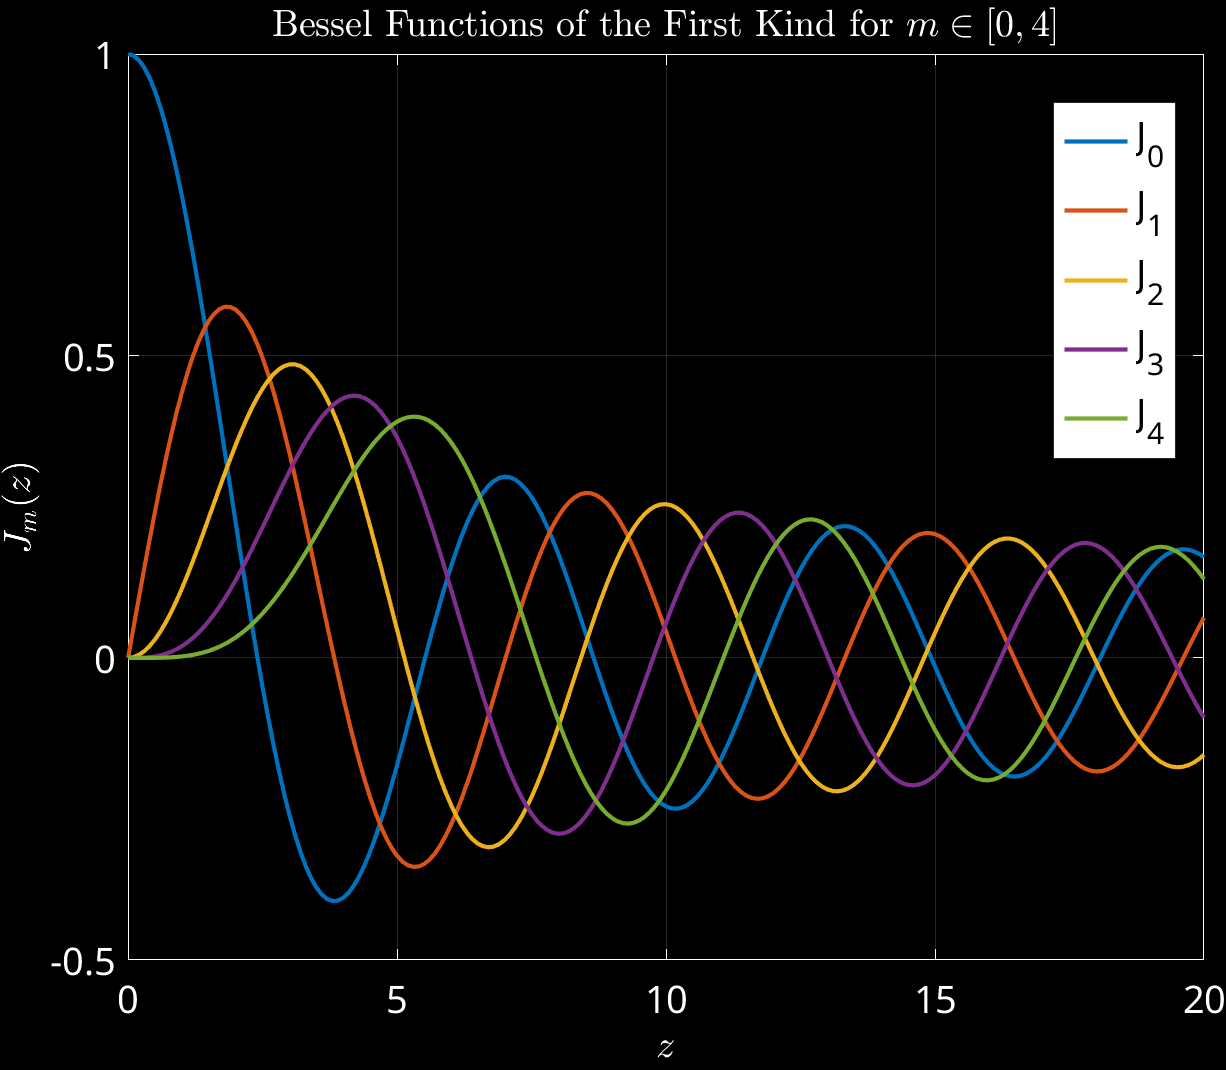
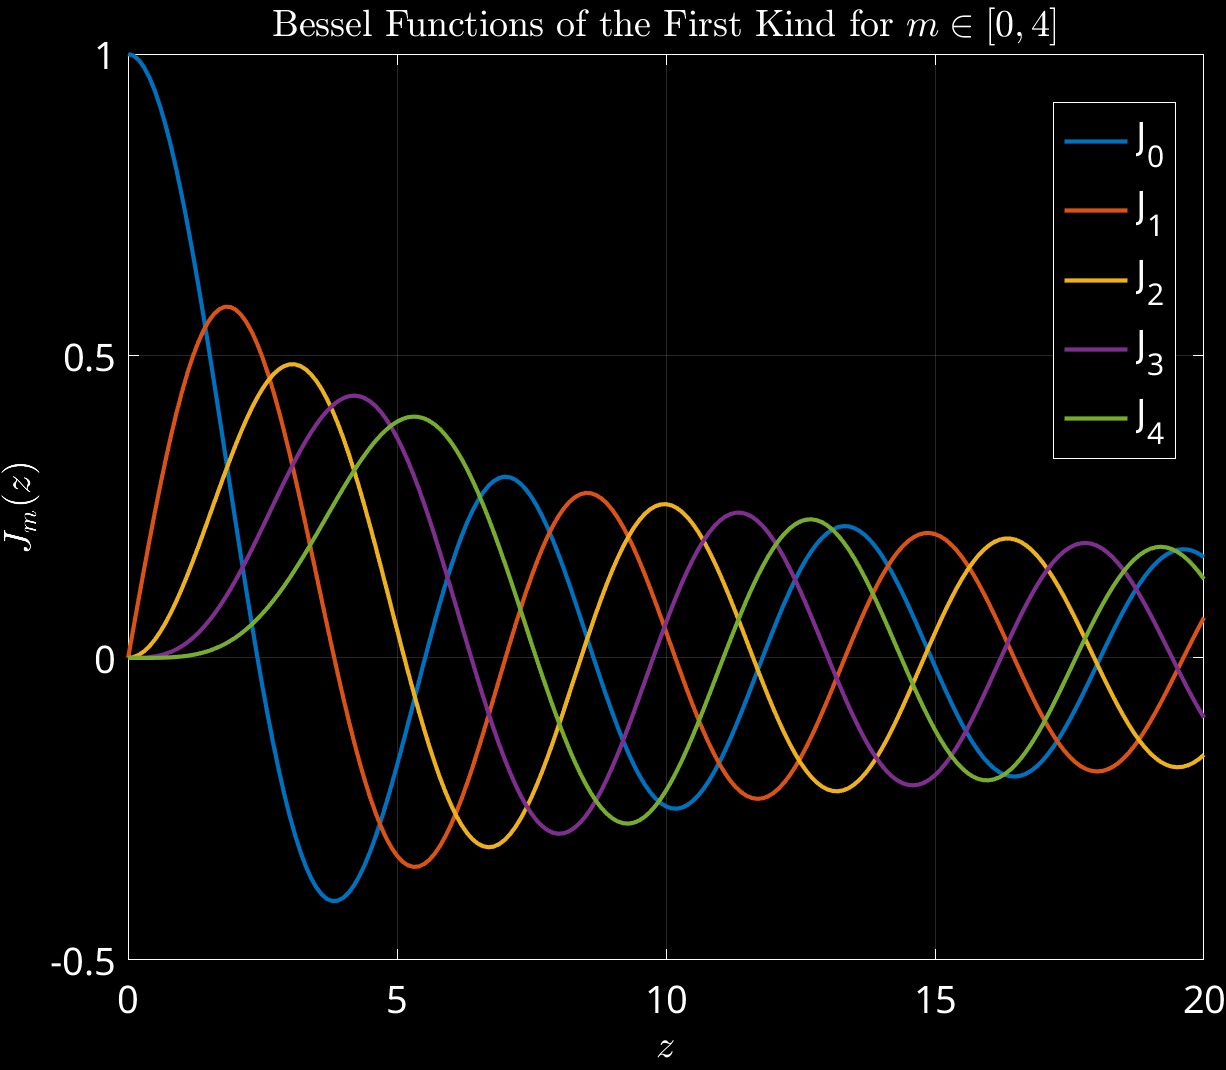
circ membrane gif

Changed region(s): [[0.8369, 0.0925, 0.9608, 0.4318]]

diff --git a/code/Circ_Membrane/Run_forced_circ_membrane.m b/code/Circ_Membrane/Run_forced_circ_membrane.m
@@ -48,7 +48,7 @@ end
 alpha = @(r, theta) eig_functions{1,4,1}(r, theta) + 2*eig_functions{6,1,1}(r, theta);
 gif_Filename = [result_path, sprintf('GIF_soln_u_c_%i_a_%i_alpha_14_1_61_2.gif', c, a)];
 % force Q(r, theta, t) = weighted sum of eig_functions
-force_type = 'increase';
+force_type = 'resonance';
 gif_Filename = strrep(gif_Filename, '_u_', ['_u_Force_',force_type,'_'] );
 q_i = cell(M+1, N, 2);
 switch force_type
@@ -67,40 +67,22 @@ switch force_type
 end
 q_i(cellfun(@isempty,q_i)) = {@(t) 0};
 % time steps settings
-dt = 0.1; L = 30; steps = numel(0:dt:L);
-% plot external force Q
-[r_mesh, theta_mesh, time_mesh] = meshgrid(0:0.05:a, linspace(-pi,pi,100), 0:dt:L);
+dt = 0.1; L = 10; steps = numel(0:dt:L);
+
+% plot eig_fun(m,n,i)
+%{
+[r_mesh, theta_mesh] = meshgrid(0:0.05:a, linspace(-pi,pi,100));
 x_mesh = r_mesh(:,:,1).*cos(theta_mesh(:,:,1)); y_mesh = r_mesh(:,:,1).*sin(theta_mesh(:,:,1));
-gif_Filename_force = strrep(gif_Filename, 'soln_u_', 't0');
-if ~exist(gif_Filename_force,'file')      
-    force = Q(r_mesh, theta_mesh, time_mesh); 
-    bds = max(force, [],'all');
-    for l = 0:0    
-        time = dt * l;
-        fig = figure(14);
-        colormap(autumn(100));  view([-40,60]); 
-        colorbar;
-        surf(x_mesh, y_mesh, force(:,:,l+1));
-        xlabel('x');  ylabel('y'); zlim([-bds,bds]);  
-        sgtitle({['Time t = ', num2str(time,'%.2f')]}, 'Color', [1,1,1],'FontSize', 20); 
-        darkBackground(fig,[0 0 0],[1 1 1]);
-        drawnow; 
-        frame = getframe(fig);
-        im{l+1} = frame2im(frame);
-    end
-    im_to_gif(gif_Filename_force,im,1:steps);
-end
-% plot eig_fun(1,1)
+
 phi_1 = eig_functions{1,1,1}(r_mesh(:,:,1), theta_mesh(:,:,1), time_mesh(:,:,1));
 fig = figure(14);
 colormap(autumn(100));  view([-40,60]); 
-colorbar;
 surf(x_mesh, y_mesh, phi_1);
 xlabel('x');  ylabel('y'); zlim([-0.2,1]);  
 title('\phi_{0,1}', 'Color', [1,1,1],'FontSize', 20); 
 darkBackground(fig,[0 0 0],[1 1 1]);set(gcf, 'InvertHardCopy', 'off'); 
 print(['results\phi1.png'],'-dpng');
-
+%}
 
 integral_term = zeros(M+1, N, 2, steps);
 for m = 0:M
@@ -163,11 +145,11 @@ if ~exist(gif_Filename,'file')
         vibration(:,:,l+1) = u{l+1}(r_mesh, theta_mesh);            
     end
     bds = max(vibration, [],'all');
+    im = cell(1,steps);
+    fig = figure(14);
     for l = 0:steps-1    
-        time = dt * l;
-        fig = figure(14);
-        colormap(autumn(100));  view([-33,71]); 
-        colorbar;
+        time = dt * l;   
+        colormap(autumn(100));  view([-40,60]); 
         surf(x_mesh, y_mesh, vibration(:,:,l+1));
         xlabel('x');  ylabel('y'); zlim([-bds,bds]);  
         sgtitle({['Time t = ', num2str(time,'%.2f')]}, 'Color', [1,1,1],'FontSize', 20); 
@@ -176,7 +158,7 @@ if ~exist(gif_Filename,'file')
         frame = getframe(fig);
         im{l+1} = frame2im(frame);
     end
-    im_to_gif(gif_Filename,im,1:steps);
+    im_to_gif_dt(gif_Filename,im,dt);
 end
 
 

diff --git a/code/Circ_Membrane/Run_circ_membrane.m b/code/Circ_Membrane/Run_circ_membrane.m
@@ -65,12 +65,13 @@ print(['Orth_mat_Jm.pdf'],'-dpdf', '-fillpage');
 
 %% Movie of a few eig_functions
 m_seq = 0:2; n_seq = 1:3; i_seq = 1; %m = 0,...,M, n = 1,...,N, i = 1,2
-dt = 0.1; L = 20; steps = numel(0:dt:L);
+dt = 0.1; L = 10; steps = numel(0:dt:L);
 [r_mesh, theta_mesh, time_mesh] = meshgrid(linspace(0,a,20), linspace(-pi,pi,100), 0:dt:L);
 x_mesh = r_mesh(:,:,1).*cos(theta_mesh(:,:,1)); y_mesh = r_mesh(:,:,1).*sin(theta_mesh(:,:,1));
 vibration = cell(numel(n_seq), numel(m_seq), numel(i_seq));
 gif_Filename = [result_path, sprintf('GIF_eig_functions_c_%i_m_%i_%i_n_%i_%i_i_%i_%i_vibration.gif', c,m_seq(1), m_seq(end),n_seq(1), n_seq(end),i_seq(1),i_seq(end))];
 if ~exist(gif_Filename,'file') 
+    
     for mm = m_seq
           for nn = n_seq
                for ii = i_seq
@@ -78,7 +79,8 @@ if ~exist(gif_Filename,'file')
                 end       
           end
     end
-    fig = figure;
+    im = cell(1,steps);
+    fig = figure(14);
     for l = 0:steps-1
         count = 1;
         for mm = m_seq
@@ -101,8 +103,10 @@ if ~exist(gif_Filename,'file')
         frame = getframe(fig);
         im{l+1} = frame2im(frame);
     end
-    im_to_gif(gif_Filename,im,1:steps);
+    close;
+    im_to_gif_dt(gif_Filename,im, dt);
 end
+
 
 
 %% 3 Compute coefficients A_lambda for phi)lambda from given initial displacemet alpda(r, theta)
@@ -140,7 +144,7 @@ print('results/IC.png','-dpng');
 gif_Filename = [result_path,sprintf('GIF_soln_u_c_%i_a_%i_alpha_14_1_61_2.gif', c, a)];
 
 %% 3 Solution u: movie
-dt = 0.1; L = 20; steps = numel(0:dt:L);
+dt = 0.1; L = 15; steps = numel(0:dt:L);
 [r_mesh, theta_mesh, time_mesh] = meshgrid(linspace(0,a,20), linspace(-pi,pi,100), 0:dt:L);
 x_mesh = r_mesh(:,:,1).*cos(theta_mesh(:,:,1)); y_mesh = r_mesh(:,:,1).*sin(theta_mesh(:,:,1));
 
@@ -187,7 +191,6 @@ xlabel('x');  ylabel('y');
         time = dt * l;
         figure(14);
         colormap(autumn(100));  view([-40,60]); 
-        colorbar;
         surf(x_mesh, y_mesh, vibration(:,:,l+1), 'EdgeAlpha', 0.3);
         bds = sum(weights, 'all');
         xlabel('x');  ylabel('y'); zlim([-bds,bds]);  
@@ -197,7 +200,7 @@ xlabel('x');  ylabel('y');
         frame = getframe(fig);
         im{l+1} = frame2im(frame);
     end
-    im_to_gif(gif_Filename,im,1:steps);
+    im_to_gif_dt(gif_Filename, im, dt);
 end
 
 %% Bessel J functions plot
@@ -209,7 +212,7 @@ end
 figure;
 plot(z,J, 'Linewidth',2)
 grid on
-legend('J_0','J_1','J_2','J_3','J_4','Location','Best')
+legend('\color{white}J_0','\color{white}J_1','\color{white}J_2','\color{white}J_3','\color{white}J_4','Color',[0 0 0],'EdgeColor',[1 1 1],'Location','Best')
 title('Bessel Functions of the First Kind for $m \in [0, 4]$','interpreter','latex')
 xlabel('$z$','interpreter','latex')
 ylabel('$J_m(z)$','interpreter','latex');

diff --git a/code/Circ_Membrane/im_to_gif_dt.m b/code/Circ_Membrane/im_to_gif_dt.m
@@ -1,0 +1,11 @@
+function im_to_gif_dt(filename,im, dt)
+nframes = numel(im);
+for idx=1:nframes
+    [A,map] = rgb2ind(im{idx},256);
+    if idx == 1
+          imwrite(A,map,filename,'gif', 'Loopcount',inf,'DelayTime',dt);
+    else
+          imwrite(A,map,filename,'gif','WriteMode','append','DelayTime',dt);
+    end
+end
+end
